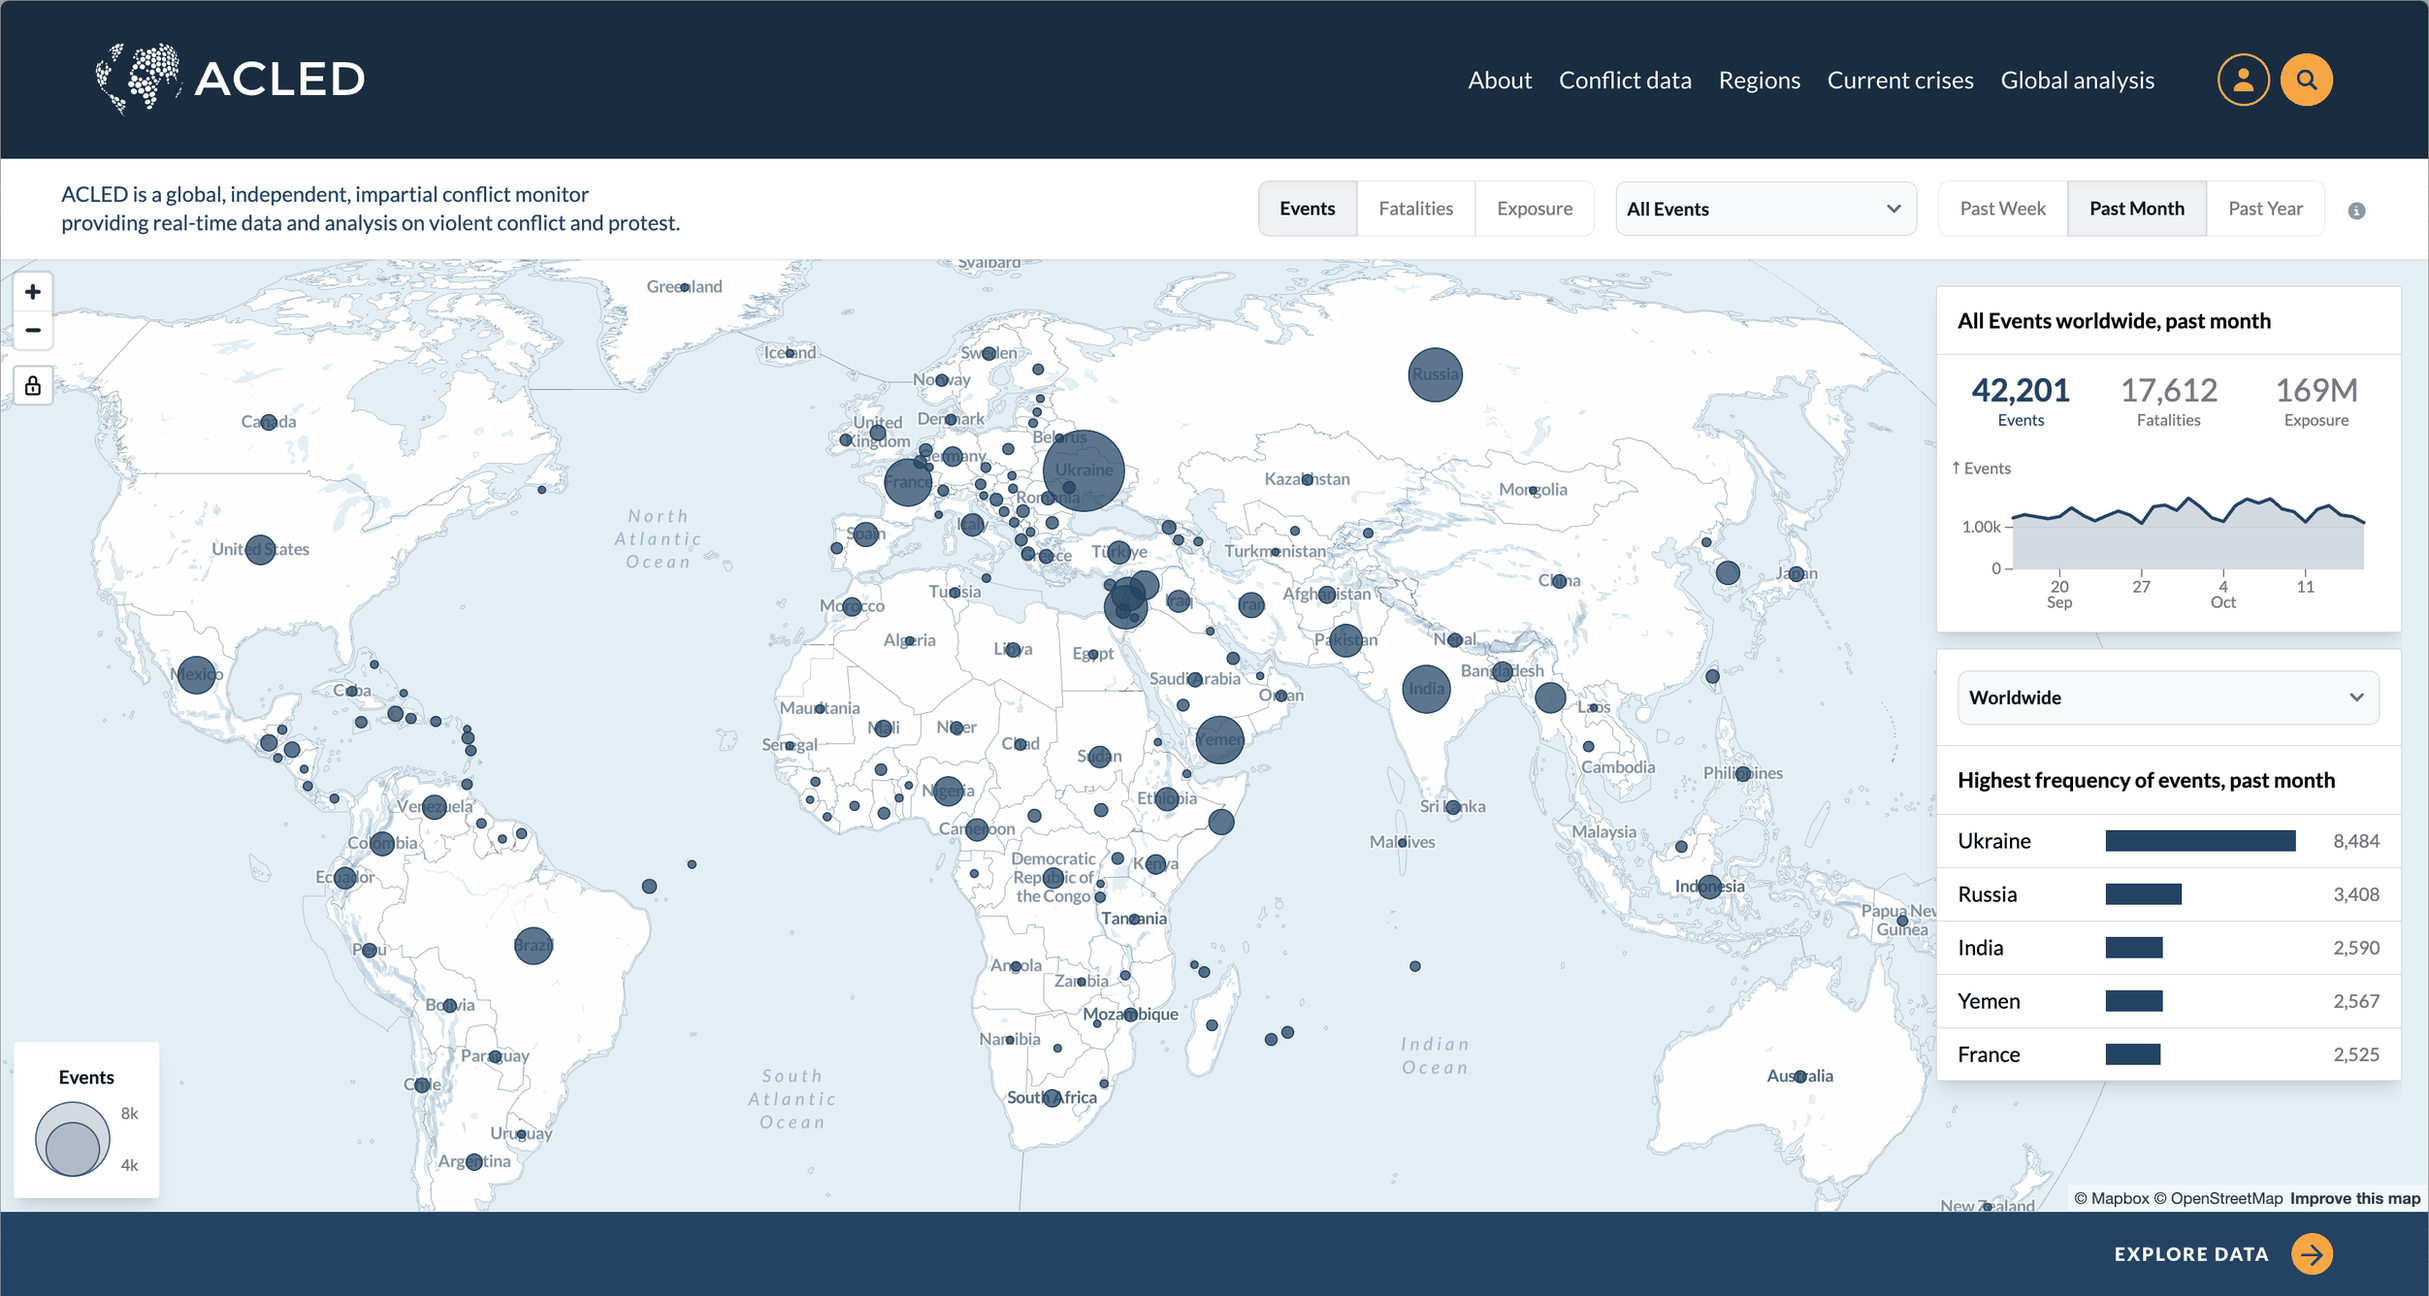
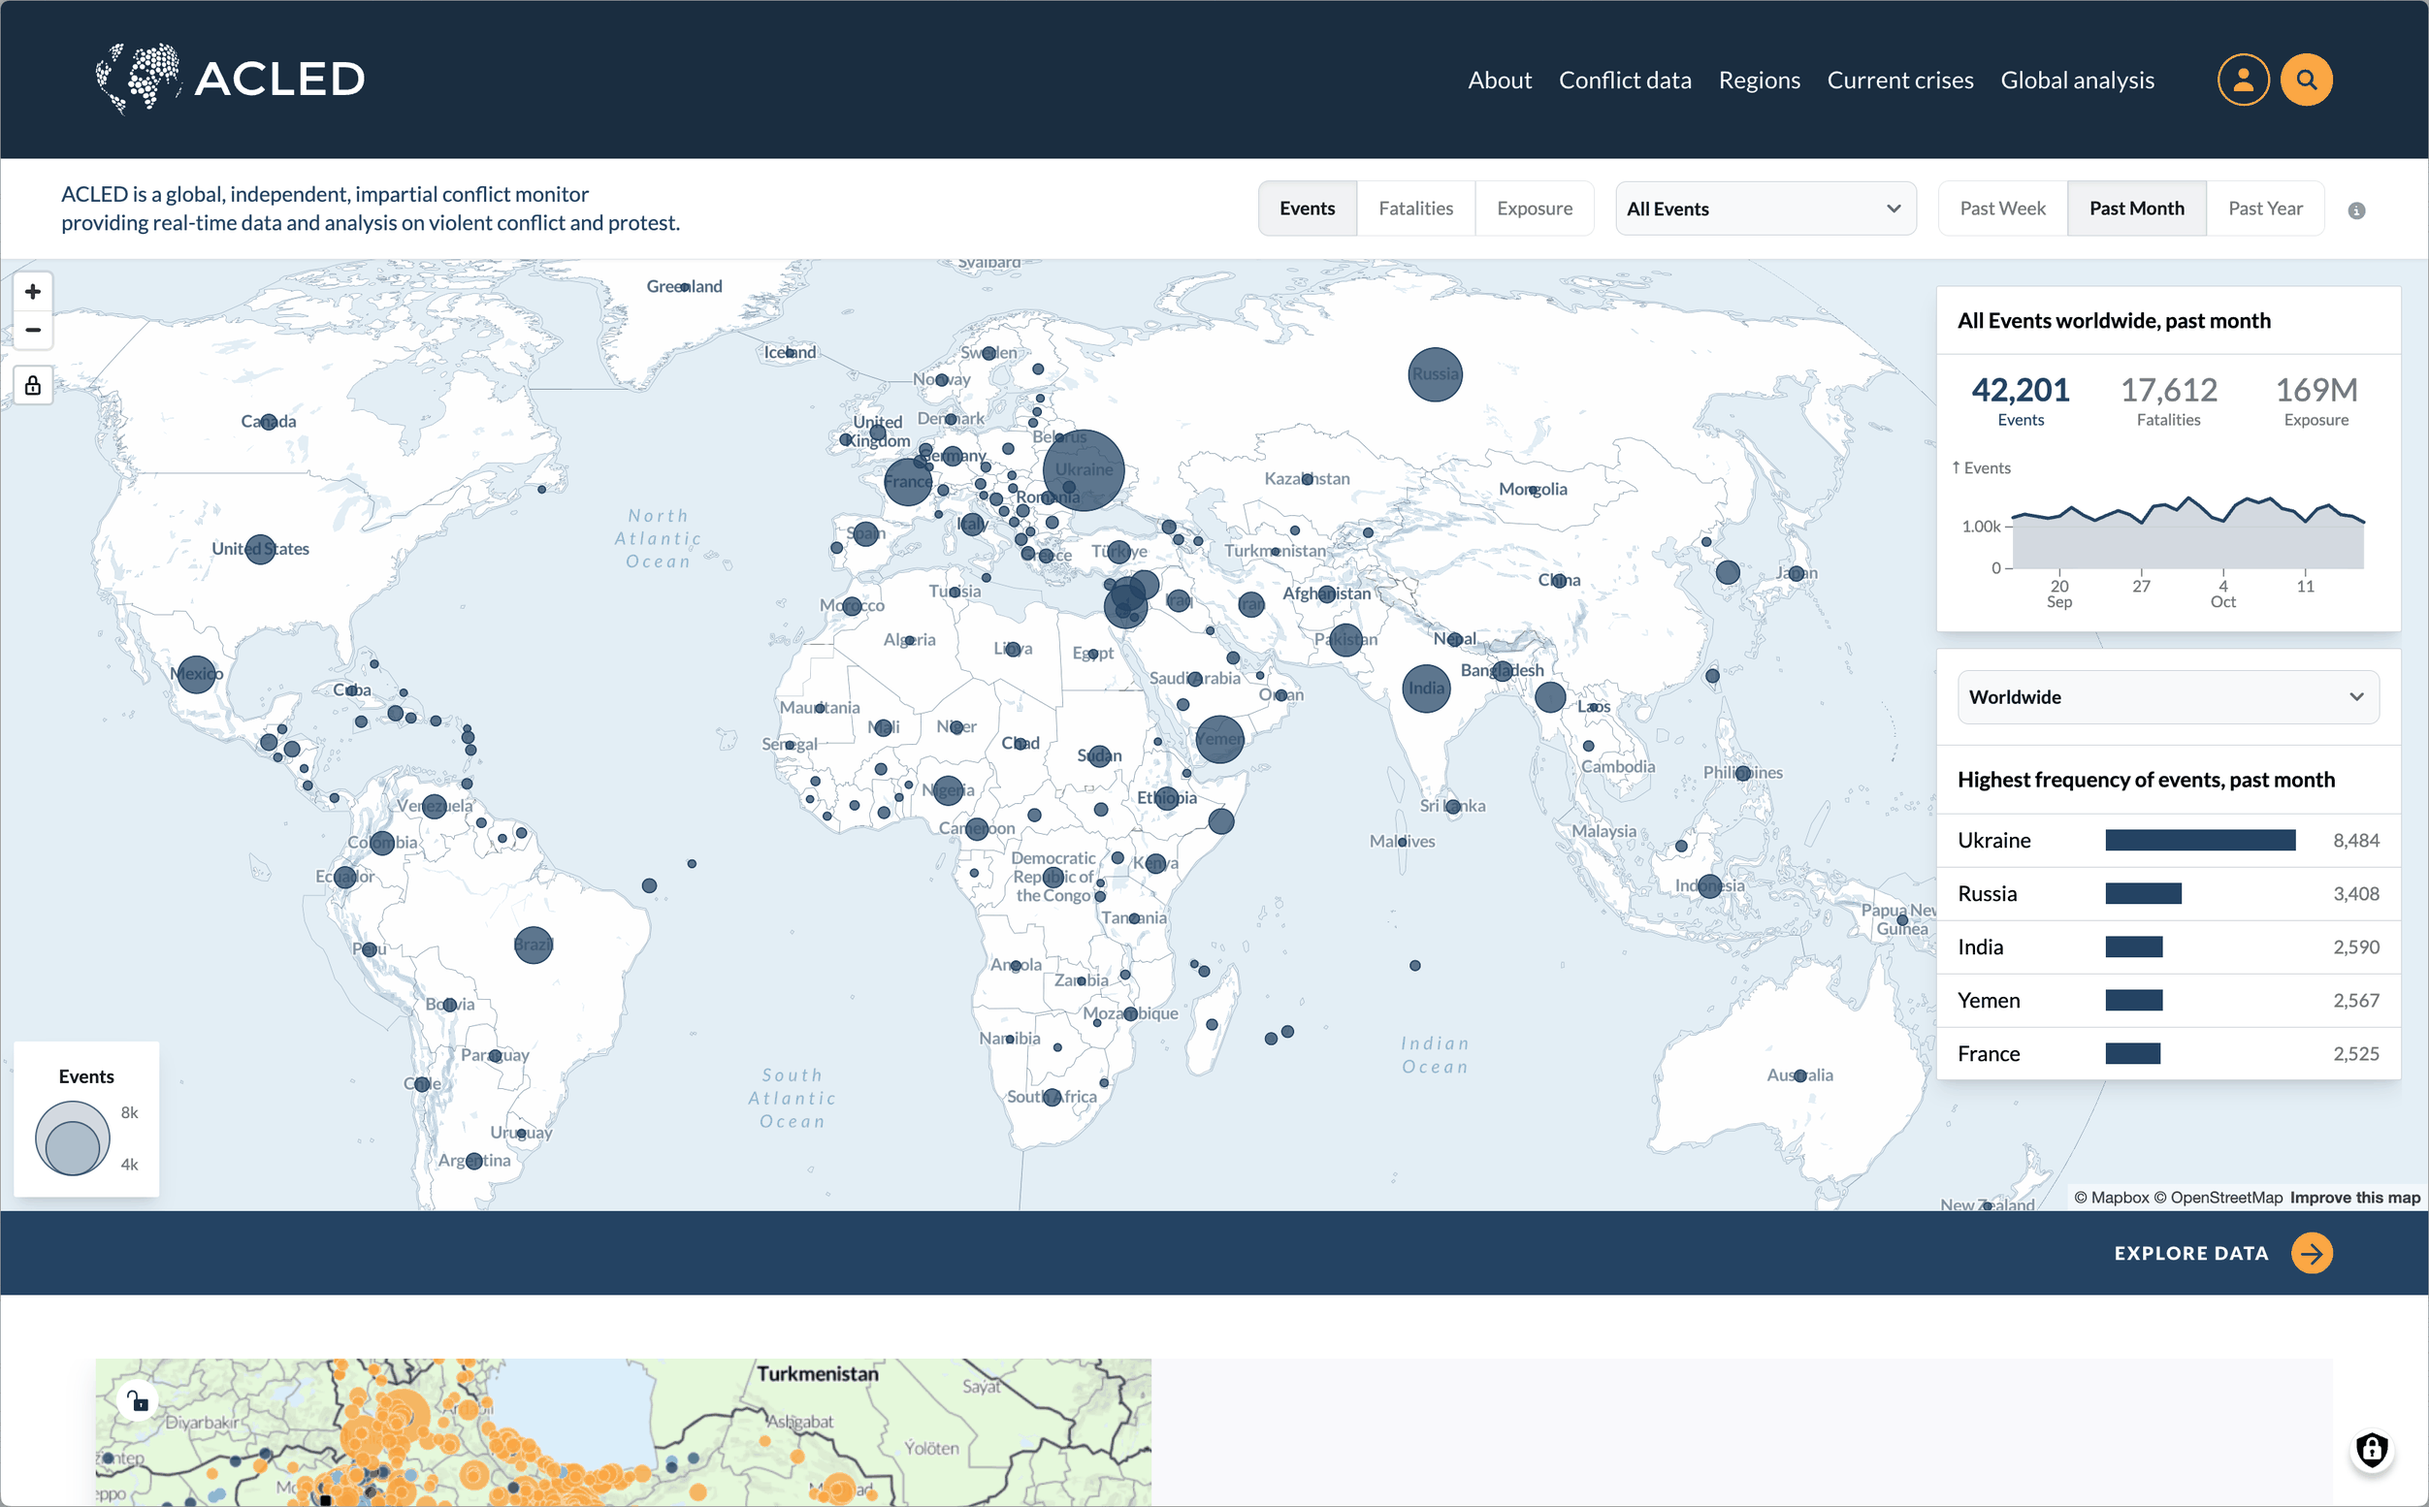
Both Sides: ACLED shot as the full window, like the other shots

diff --git a/both-sides.html b/both-sides.html
@@ -157,7 +157,7 @@
     <section class="page-section prose">
       <h2 class="section-title">Collecting and Classifying the Data</h2>
       <p>Although this began as a design school project, and I&rsquo;m not a data analyst, I felt it needed real data to support a meaningful comparison. My search led me to <a href="https://acleddata.com/" target="_blank" rel="noopener">ACLED</a>, a database documenting protests and political violence worldwide. There, I found thousands of events in Israel and the territories. I used only each event&rsquo;s description and date, extracting the remaining information needed for the project from the description.</p>
-      <div class="media-row"><img class="shot" src="images/both-sides/acled.png" alt="ACLED: a world map of recorded protest and conflict events"></div>
+      <div class="media-row"><img class="shot" src="images/both-sides/acled.png?v=2" alt="ACLED: a world map of recorded protest and conflict events"></div>
       <p>I wanted to classify all 13,000 events by the type of action involved. My first attempts involved uploading the entire spreadsheet to ChatGPT with detailed instructions, but the classifications were unreliable. I then switched to the OpenAI API and set up a process that analyzed each event separately using the same instructions. The results were much better.</p>
       <p>Reviewing the classifications revealed gaps in my instructions. I had defined damage to objects as property damage, so throwing stones at moving cars fell into that category, even though I considered it a cold-weapon attack. Throwing eggs was also classified as a cold-weapon attack, while incidents involving more than two attackers became pogroms. I continued identifying patterns, refining the instructions, and checking the results, gradually improving the accuracy of the classifications.</p>
     </section>
